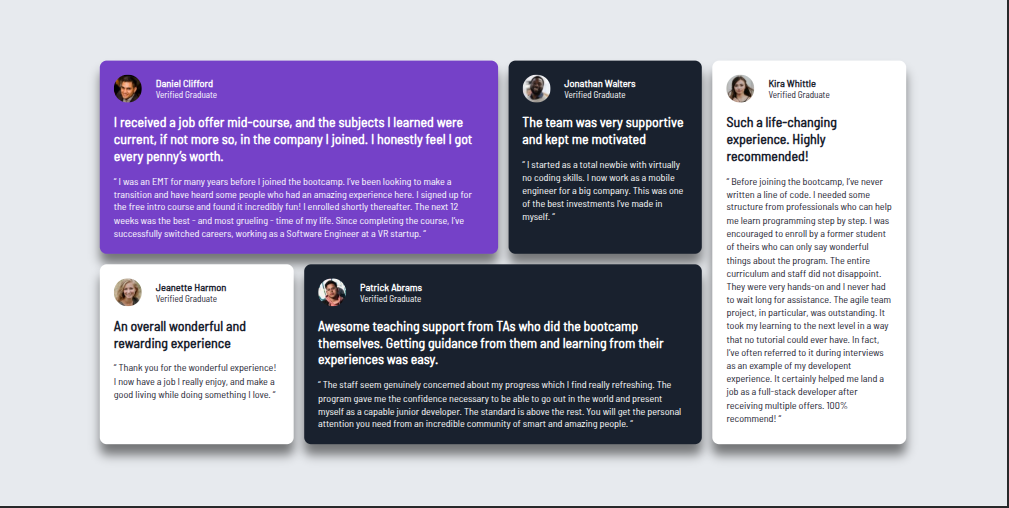
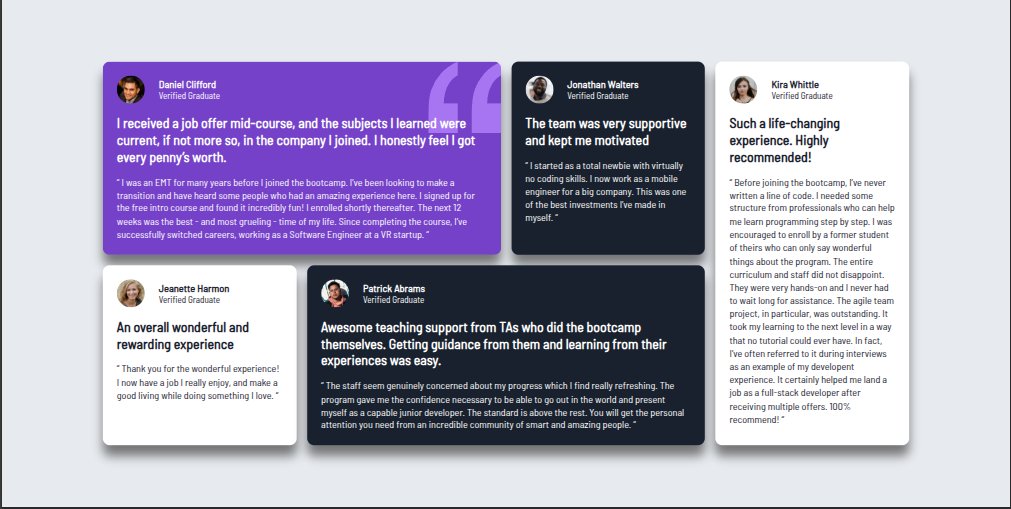
set a proper ReadMe

Changed region(s): [[0.0922, 0.1181, 0.891, 0.8858]]

diff --git a/README.md b/README.md
@@ -1,91 +1,79 @@
-# Frontend Mentor - Testimonials grid section
+# Frontend Mentor - Testimonials grid section solution
 
-![Design preview for the Testimonials grid section coding challenge](./preview.jpg)
+This is a solution to the [Testimonials grid section challenge on Frontend Mentor](https://www.frontendmentor.io/challenges/testimonials-grid-section-Nnw6J7Un7). Frontend Mentor challenges help you improve your coding skills by building realistic projects.
 
-## Welcome! 👋
+## Table of contents
 
-Thanks for checking out this front-end coding challenge.
+- [The challenge](#the-challenge)
+- [Screenshot](#screenshot)
+- [My process](#my-process)
+- [Built with](#built-with)
+- [What I learned](#what-i-learned)
+- [Continued development](#continued-development)
+- [Author](#author)
+- [Acknowledgments](#acknowledgments)
 
-[Frontend Mentor](https://www.frontendmentor.io) challenges help you improve your coding skills by building realistic projects.
+### The challenge
 
-**To do this challenge, you need a basic understanding of HTML and CSS.**
-
-## The challenge
-
-Your challenge is to build out this testimonials grid section and get it looking as close to the design as possible.
-
-You can use any tools you like to help you complete the challenge. So if you've got something you'd like to practice, feel free to give it a go.
-
-Your users should be able to:
+Users should be able to:
 
 - View the optimal layout for the site depending on their device's screen size
 
-Want some support on the challenge? [Join our community](https://www.frontendmentor.io/community) and ask questions in the **#help** channel.
+### Screenshot
 
-## Where to find everything
+![](screenshot.png)
 
-Your task is to build out the project to the designs inside the `/design` folder. You will find both a mobile and a desktop version of the design. 
+## My process
 
-The designs are in JPG static format. Using JPGs will mean that you'll need to use your best judgment for styles such as `font-size`, `padding` and `margin`. 
+- To be honest, I don't even know how I manage to do this...
 
-If you would like the design files (we provide Sketch & Figma versions) to inspect the design in more detail, you can [subscribe as a PRO member](https://www.frontendmentor.io/pro).
+### Built with
 
-You will find all the required assets in the `/images` folder. The assets are already optimized.
+- Semantic HTML5 markup
+- CSS custom properties
+- Flexbox
+- CSS Grid
+- Desktop-first workflow
+- CSS Variables
 
-There is also a `style-guide.md` file containing the information you'll need, such as color palette and fonts.
+### What I learned
 
-## Building your project
+- I leaned how to use `Grid-template-area` and `Grid-area`
 
-Feel free to use any workflow that you feel comfortable with. Below is a suggested process, but do not feel like you need to follow these steps:
+```css
+.grid {
+  display: grid;
+  max-width: 80%;
+  grid-auto-columns: 1fr;
+  grid-template-areas:
+    "un un deux cinq"
+    "trois quatre quatre cinq";
+  gap: 1.5rem;
+```
 
-1. Initialize your project as a public repository on [GitHub](https://github.com/). Creating a repo will make it easier to share your code with the community if you need help. If you're not sure how to do this, [have a read-through of this Try Git resource](https://try.github.io/).
-2. Configure your repository to publish your code to a web address. This will also be useful if you need some help during a challenge as you can share the URL for your project with your repo URL. There are a number of ways to do this, and we provide some recommendations below.
-3. Look through the designs to start planning out how you'll tackle the project. This step is crucial to help you think ahead for CSS classes to create reusable styles.
-4. Before adding any styles, structure your content with HTML. Writing your HTML first can help focus your attention on creating well-structured content.
-5. Write out the base styles for your project, including general content styles, such as `font-family` and `font-size`.
-6. Start adding styles to the top of the page and work down. Only move on to the next section once you're happy you've completed the area you're working on.
+- Background-image :
 
-## Deploying your project
+```css
+.un {
+  background-image: url(images/bg-pattern-quotation.svg);
+  background-repeat: no-repeat;
+  background-position: top right;
+}
+```
 
-As mentioned above, there are many ways to host your project for free. Our recommended hosts are:
+### Continued development
 
-- [GitHub Pages](https://pages.github.com/)
-- [Vercel](https://vercel.com/)
-- [Netlify](https://www.netlify.com/)
+- Properly center a grid
+- Media queries
+- Mobile-first Workflow
+- CSS variables
+- background images
 
-You can host your site using one of these solutions or any of our other trusted providers. [Read more about our recommended and trusted hosts](https://medium.com/frontend-mentor/frontend-mentor-trusted-hosting-providers-bf000dfebe).
+## Author
 
-## Create a custom `README.md`
+- Frontend Mentor - [@Jeanclaude09-dev](https://www.frontendmentor.io/profile/Jeanclaude09-dev)
+- instagram - [@iamje_nclaude](https://www.instagram.com/iamje_nclaude)
 
-We strongly recommend overwriting this `README.md` with a custom one. We've provided a template inside the [`README-template.md`](./README-template.md) file in this starter code.
+## Acknowledgments
 
-The template provides a guide for what to add. A custom `README` will help you explain your project and reflect on your learnings. Please feel free to edit our template as much as you like.
-
-Once you've added your information to the template, delete this file and rename the `README-template.md` file to `README.md`. That will make it show up as your repository's README file.
-
-## Submitting your solution
-
-Submit your solution on the platform for the rest of the community to see. Follow our ["Complete guide to submitting solutions"](https://medium.com/frontend-mentor/a-complete-guide-to-submitting-solutions-on-frontend-mentor-ac6384162248) for tips on how to do this.
-
-Remember, if you're looking for feedback on your solution, be sure to ask questions when submitting it. The more specific and detailed you are with your questions, the higher the chance you'll get valuable feedback from the community.
-
-## Sharing your solution
-
-There are multiple places you can share your solution:
-
-1. Share your solution page in the **#finished-projects** channel of the [community](https://www.frontendmentor.io/community). 
-2. Tweet [@frontendmentor](https://twitter.com/frontendmentor) and mention **@frontendmentor**, including the repo and live URLs in the tweet. We'd love to take a look at what you've built and help share it around.
-3. Share your solution on other social channels like LinkedIn.
-4. Blog about your experience building your project. Writing about your workflow, technical choices, and talking through your code is a brilliant way to reinforce what you've learned. Great platforms to write on are [dev.to](https://dev.to/), [Hashnode](https://hashnode.com/), and [CodeNewbie](https://community.codenewbie.org/).
-
-We provide templates to help you share your solution once you've submitted it on the platform. Please do edit them and include specific questions when you're looking for feedback. 
-
-The more specific you are with your questions the more likely it is that another member of the community will give you feedback.
-
-## Got feedback for us?
-
-We love receiving feedback! We're always looking to improve our challenges and our platform. So if you have anything you'd like to mention, please email hi[at]frontendmentor[dot]io.
-
-This challenge is completely free. Please share it with anyone who will find it useful for practice.
-
-**Have fun building!** 🚀
+- I want to thank "Sana Khan" - [@Sana-zen](https://www.frontendmentor.io/profile/Sana-zen) I learned the correct tag to use for a testimonial with her solution
